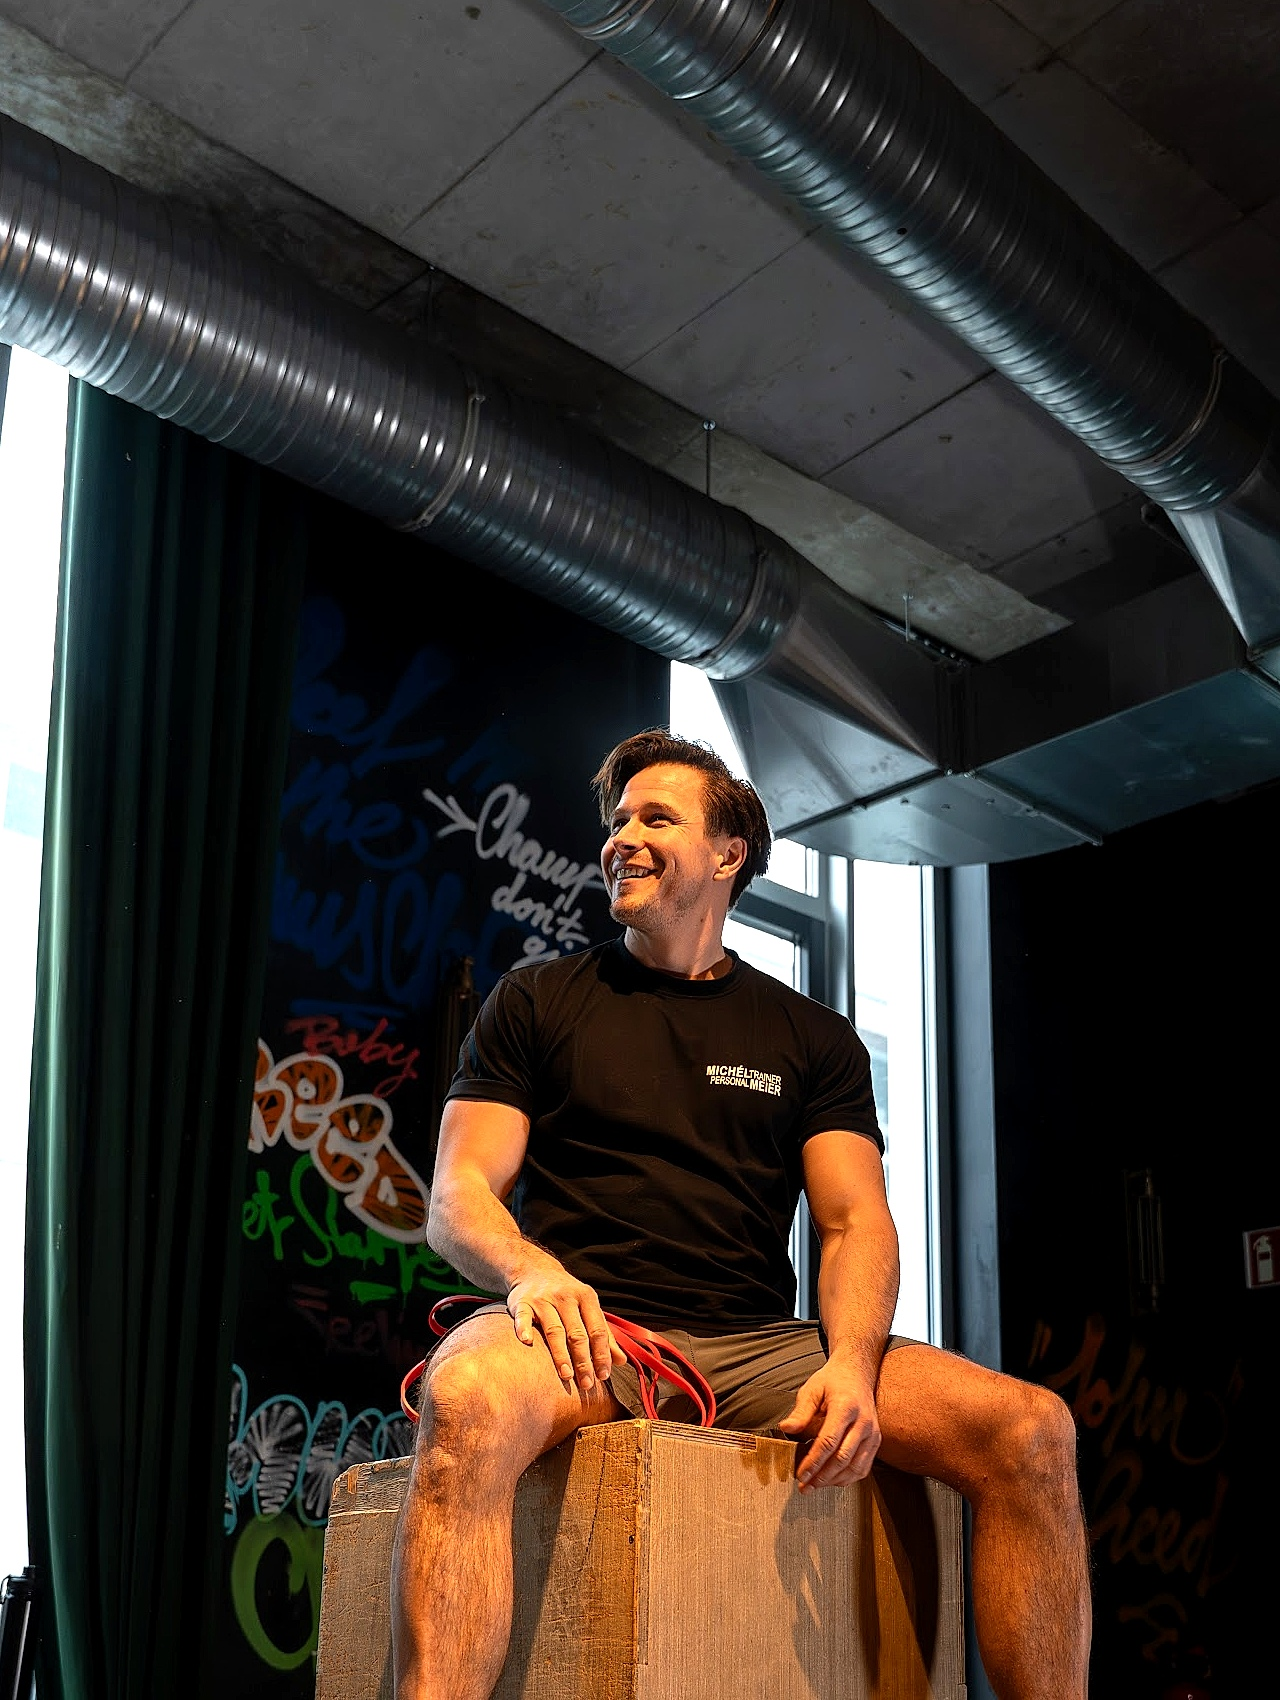
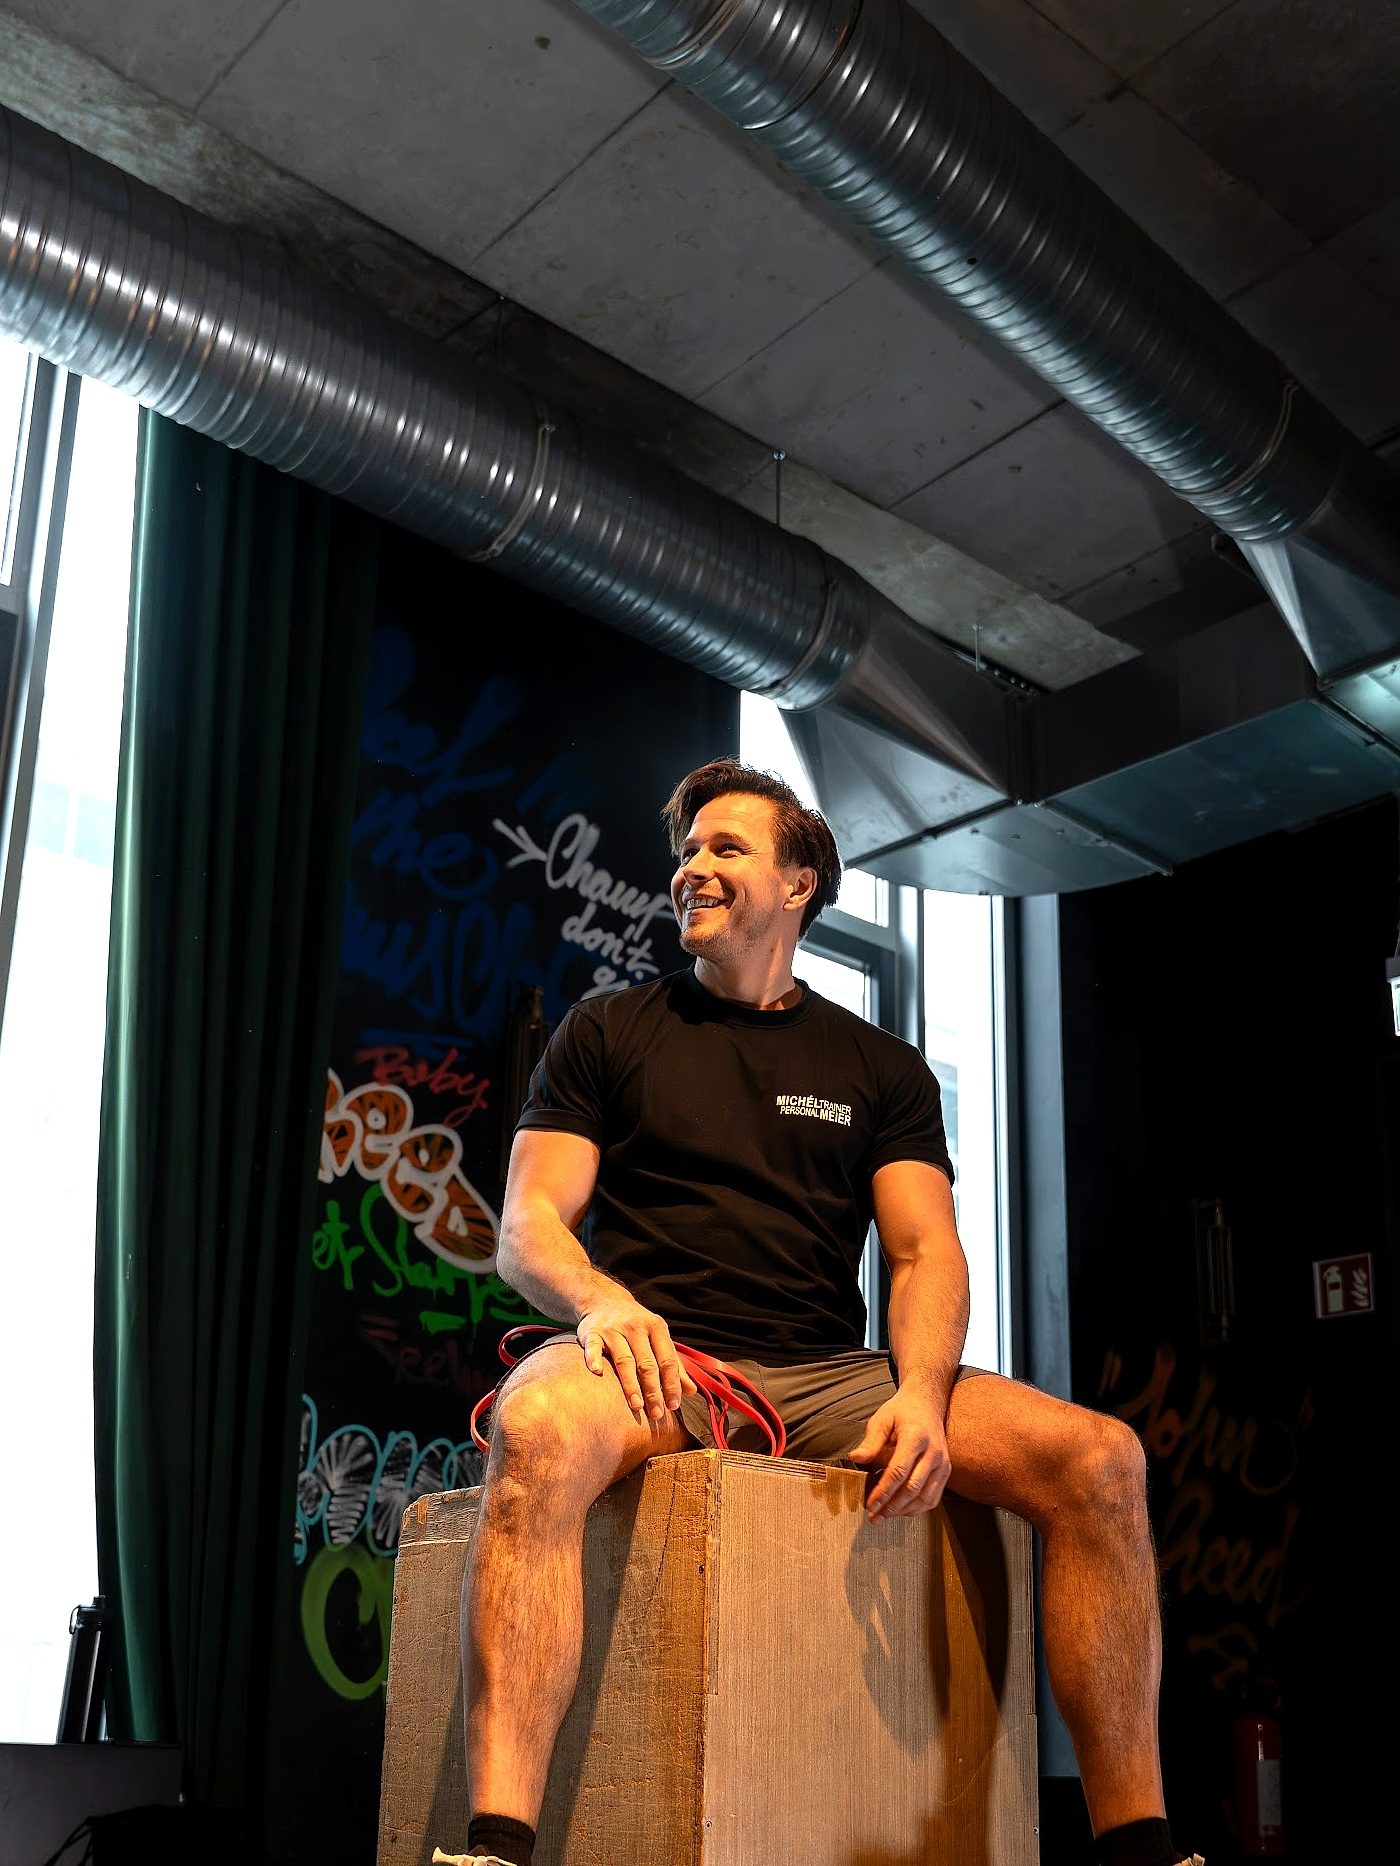
feat(ueber-mich): center full body and box with 3:4 aspect ratio and sleek glassmorphic badge

diff --git a/src/routes/ueber-mich.tsx b/src/routes/ueber-mich.tsx
@@ -87,17 +87,17 @@ function UeberMichPage() {
             {/* Authentic Studio Portrait */}
             <div className="lg:col-span-5 flex justify-center relative">
               <div className="relative w-full max-w-md">
-                <div className="rounded-3xl overflow-hidden border-2 border-gold/40 shadow-[var(--shadow-gold)] bg-black/60 aspect-[4/5] relative group">
+                <div className="rounded-3xl overflow-hidden border-2 border-gold/40 shadow-[var(--shadow-gold)] bg-black/40 aspect-[3/4] relative group">
                   <img
                     src="/images/gym-shooting/A7401490_enhanced.jpg"
                     alt="Michél Meier – Master Personal Trainer & Gründer M³"
                     className="w-full h-full object-cover object-center group-hover:scale-105 transition-transform duration-700"
                   />
-                  <div className="absolute inset-0 bg-gradient-to-t from-black/85 via-black/15 to-transparent" />
-                  <div className="absolute bottom-5 left-5 right-5 space-y-1 text-left">
-                    <div className="font-display font-extrabold text-xl text-white">Michél Meier</div>
-                    <div className="text-xs font-semibold text-gold tracking-wide">
-                      IDO Breakdance World Champion · Personal Trainer & Coach
+                  <div className="absolute inset-0 bg-gradient-to-t from-black/70 via-transparent to-transparent pointer-events-none" />
+                  <div className="absolute bottom-4 left-4 right-4 p-3.5 rounded-2xl bg-black/60 backdrop-blur-md border border-white/10 text-left">
+                    <div className="font-display font-extrabold text-base sm:text-lg text-white">Michél Meier</div>
+                    <div className="text-[11px] sm:text-xs font-semibold text-gold tracking-wide">
+                      IDO Breakdance World Champion · Master Personal Trainer
                     </div>
                   </div>
                 </div>
